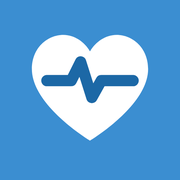
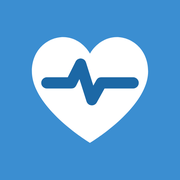
Add files via upload

diff --git a/index.html b/index.html
@@ -142,6 +142,12 @@
 [data-theme="dark"] .tl-item::before {
   background: var(--bg);
 }
+[data-theme="dark"] .award {
+  background: linear-gradient(135deg, var(--surface), var(--surface-blue));
+}
+[data-theme="dark"] .clink:hover {
+  color: #1c68a6;
+}
 [data-theme="dark"] .tag:hover {
   background: #2f7fc4;
   color: #fff;
@@ -1302,7 +1308,7 @@ footer.foot {
 <header class="nav" id="nav">
   <div class="wrap nav-inner">
     <a href="#top" class="brand">
-      <span class="mono" aria-hidden="true"><svg viewBox="0 0 48 48"><path d="M24 37.5C24 37.5 8.5 28.2 8.5 18.4C8.5 12.8 12.6 9.3 16.9 9.3C19.8 9.3 22.5 11.1 24 13.7C25.5 11.1 28.2 9.3 31.1 9.3C35.4 9.3 39.5 12.8 39.5 18.4C39.5 28.2 24 37.5 24 37.5Z" fill="#fff"/><path d="M12.5 21.5H19L21.5 16.5L24.5 26L27 21.5H35.5" fill="none" stroke="#1C68A6" stroke-width="2.4" stroke-linecap="round" stroke-linejoin="round"/></svg></span>
+      <span class="mono" aria-hidden="true"><svg viewBox="0 0 48 48"><g transform="translate(0 0.6)"><path d="M24 37.5C24 37.5 8.5 28.2 8.5 18.4C8.5 12.8 12.6 9.3 16.9 9.3C19.8 9.3 22.5 11.1 24 13.7C25.5 11.1 28.2 9.3 31.1 9.3C35.4 9.3 39.5 12.8 39.5 18.4C39.5 28.2 24 37.5 24 37.5Z" fill="#fff"/><path d="M12.5 21.5H19L21.5 16.5L24.5 26L27 21.5H35.5" fill="none" stroke="#1C68A6" stroke-width="2.4" stroke-linecap="round" stroke-linejoin="round"/></g></svg></span>
       Yi-Syuan Chen <span class="zh">陳奕瑄</span>
     </a>
     <div class="nav-right">
@@ -1778,13 +1784,14 @@ sections.forEach((s) => spy.observe(s));
         try { localStorage.setItem('theme', next); } catch (e) {}
       });
     }
+    // Always follow the device when its light/dark setting changes
+    // (a device change overrides and forgets any manual toggle choice).
     try {
       matchMedia('(prefers-color-scheme: dark)').addEventListener('change', function (e) {
-        if (!localStorage.getItem('theme')) {
-          var m = e.matches ? 'dark' : 'light';
-          root.setAttribute('data-theme', m);
-          sync(m);
-        }
+        var m = e.matches ? 'dark' : 'light';
+        try { localStorage.removeItem('theme'); } catch (e2) {}
+        root.setAttribute('data-theme', m);
+        sync(m);
       });
     } catch (e) {}
   })();